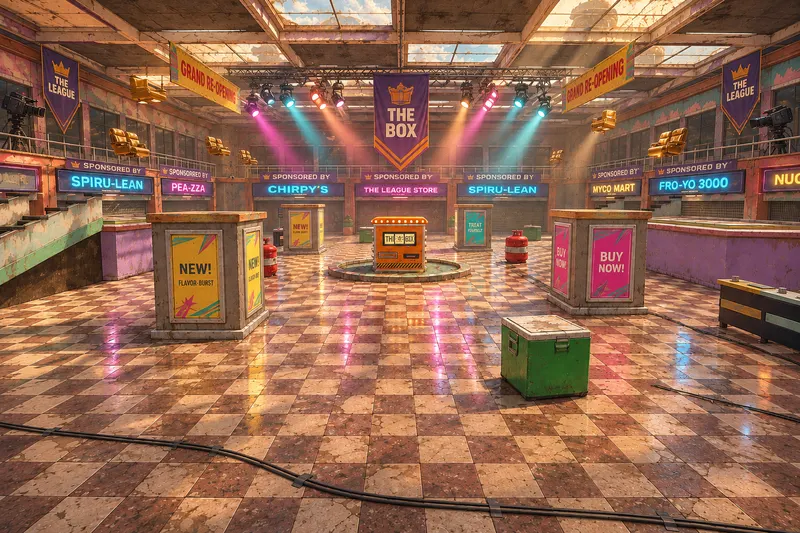
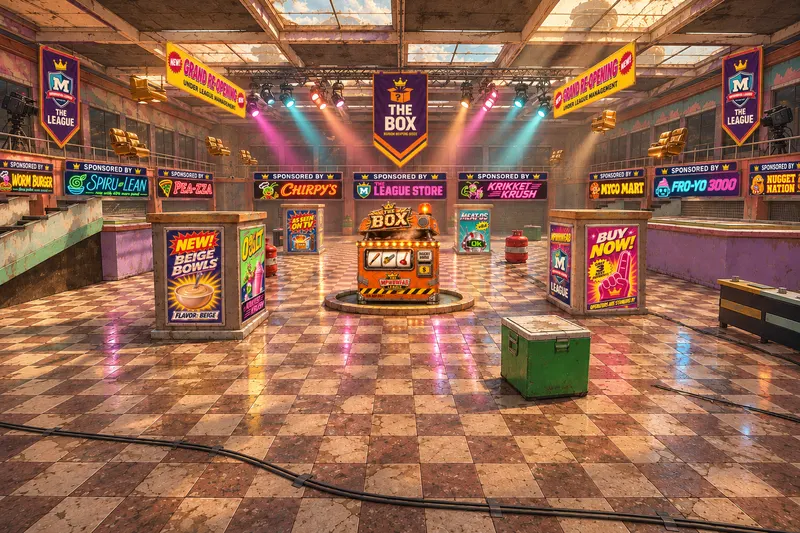
deploy: syscake.it preview from 103d374

diff --git a/it/prodotti/index.html b/it/prodotti/index.html
@@ -25,7 +25,7 @@ if(saved?saved==='it':/^it\b/i.test(pref))location.replace(it+location.search+lo
 <link rel="icon" href="/favicon.svg" type="image/svg+xml">
 <link rel="preload" href="/fonts/archivo-latin.woff2" as="font" type="font/woff2" crossorigin>
 <link rel="stylesheet" href="/css/site.css?v=45ac9cef5f">
-<script type="application/ld+json">{"@context":"https://schema.org","@type":"Organization","@id":"https://new.syscake.it/#organization","name":"Syscake","legalName":"Syscake S.r.l.","url":"https://new.syscake.it/","logo":"https://new.syscake.it/img/brand/logo-dark.svg","foundingDate":"2022","email":"info@syscake.it","telephone":"+393518250523","vatID":"IT16207441003","address":{"@type":"PostalAddress","streetAddress":"Via Quinto Novio 44","postalCode":"00175","addressLocality":"Roma","addressCountry":"IT"},"sameAs":["https://github.com/SysCake","https://www.linkedin.com/company/syscake/","https://www.instagram.com/syscake.tech","https://www.facebook.com/syscake.tech"]}</script><script type="application/ld+json">{"@context":"https://schema.org","@type":"ItemList","itemListElement":[{"@type":"ListItem","position":1,"url":"https://new.syscake.it/it/prodotti/chroniq/","name":"Chroniq"},{"@type":"ListItem","position":2,"url":"https://new.syscake.it/it/prodotti/swe-foundry/","name":"SWE Foundry"},{"@type":"ListItem","position":3,"url":"https://new.syscake.it/it/prodotti/rideweave/","name":"RideWeave"},{"@type":"ListItem","position":4,"url":"https://new.syscake.it/it/prodotti/videat/","name":"Videat"},{"@type":"ListItem","position":5,"url":"https://new.syscake.it/it/prodotti/morsiqo/","name":"Morsiqo"},{"@type":"ListItem","position":6,"url":"https://new.syscake.it/it/prodotti/meat-puppets/","name":"Meat Puppets"}]}</script><script type="application/ld+json">{"@context":"https://schema.org","@type":"BreadcrumbList","itemListElement":[{"@type":"ListItem","position":1,"name":"Home","item":"https://new.syscake.it/it/"},{"@type":"ListItem","position":2,"name":"Prodotti","item":"https://new.syscake.it/it/prodotti/"}]}</script>
+<script type="application/ld+json">{"@context":"https://schema.org","@type":"Organization","@id":"https://new.syscake.it/#organization","name":"Syscake","legalName":"Syscake S.r.l.","url":"https://new.syscake.it/","logo":"https://new.syscake.it/img/brand/logo-dark.svg","foundingDate":"2022","email":"info@syscake.it","telephone":"+393518250523","vatID":"IT16207441003","address":{"@type":"PostalAddress","streetAddress":"Via Quinto Novio 44","postalCode":"00175","addressLocality":"Roma","addressCountry":"IT"},"sameAs":["https://github.com/SysCake","https://www.linkedin.com/company/syscake/","https://www.instagram.com/syscake.tech","https://www.facebook.com/syscake.tech"]}</script><script type="application/ld+json">{"@context":"https://schema.org","@type":"ItemList","itemListElement":[{"@type":"ListItem","position":1,"url":"https://new.syscake.it/it/prodotti/chroniq/","name":"Chroniq"},{"@type":"ListItem","position":2,"url":"https://new.syscake.it/it/prodotti/swe-foundry/","name":"SWE Foundry"},{"@type":"ListItem","position":3,"url":"https://new.syscake.it/it/prodotti/rideweave/","name":"RideWeave"},{"@type":"ListItem","position":4,"url":"https://new.syscake.it/it/prodotti/videat/","name":"Videat"},{"@type":"ListItem","position":5,"url":"https://new.syscake.it/it/prodotti/meat-puppets/","name":"Meat Puppets"},{"@type":"ListItem","position":6,"url":"https://new.syscake.it/it/prodotti/morsiqo/","name":"Morsiqo"}]}</script><script type="application/ld+json">{"@context":"https://schema.org","@type":"BreadcrumbList","itemListElement":[{"@type":"ListItem","position":1,"name":"Home","item":"https://new.syscake.it/it/"},{"@type":"ListItem","position":2,"name":"Prodotti","item":"https://new.syscake.it/it/prodotti/"}]}</script>
 </head>
 <body>
 <a class="skip" href="#main">Vai al contenuto</a>
@@ -93,15 +93,6 @@ if(saved?saved==='it':/^it\b/i.test(pref))location.replace(it+location.search+lo
     <div class="actions"><a class="pbtn" href="/it/prodotti/videat/">Scheda prodotto →</a></div>
   </div>
   <div class="vis v-logo" style="--vis-bg:#F5E6D2"><img src="/img/products/videat-wordmark.svg" alt="Videat" loading="lazy"></div>
-</article><article class="panel" id="p-morsiqo" style="--pbg:#054D48;--pfg:#FEFCF9;--psoft:#BFD6D2;--pchip:#0B5F59;--pacc:#F57709;--pon:#1B1206;--icon-bg:#FEFCF9">
-  <div class="txt">
-    <div class="id"><img src="/img/products/morsiqo-icon.png" alt="" width="52" height="52">Morsiqo</div>
-    <h2>Un agente AI che prende l'ordine, e lo porta fino in fondo.</h2>
-    <p>Ordini da asporto e consegna in chat. Un agente AI guida ogni cliente dal menu al pagamento e lo aggiorna finché il cibo non arriva; il ristorante segue tutto da un'app in tempo reale.</p>
-    <div class="meta"><span class="pill" style="--dot:#8C93FF"><i></i>In sviluppo</span><span class="pill">WhatsApp · Web</span><span class="pill">Agente AI</span></div>
-    <div class="actions"><a class="pbtn" href="/it/prodotti/morsiqo/">Scheda prodotto →</a></div>
-  </div>
-  <div class="vis v-image" style="--pos:72% 50%"><img src="/img/products/morsiqo-shot.jpg" alt="Morsiqo: gli ordini passano da una nuvoletta di chat alla cucina di un ristorante" loading="lazy"></div>
 </article><article class="panel" id="p-meat-puppets" style="--pbg:#1B1F3B;--pfg:#F7F3E9;--psoft:#C9C6DD;--pchip:#272C55;--pacc:#E8357D;--pon:#FFFFFF">
   <div class="txt">
     <div class="id"><img src="/img/products/meat-puppets/icon-face.webp" alt="" width="52" height="52">Meat Puppets</div>
@@ -111,6 +102,15 @@ if(saved?saved==='it':/^it\b/i.test(pref))location.replace(it+location.search+lo
     <div class="actions"><a class="pbtn" href="https://meatpuppets.syscake.it" rel="noopener">meatpuppets.syscake.it ↗</a><a class="plink" href="/it/prodotti/meat-puppets/">Scheda prodotto →</a></div>
   </div>
   <div class="vis v-image"><img src="/img/products/meat-puppets/keyart-1600.webp" alt="Key art di Meat Puppets: due marionette combattono accanto a THE BOX mentre un trilionario guarda da una poltrona volante" loading="lazy"></div>
+</article><article class="panel" id="p-morsiqo" style="--pbg:#054D48;--pfg:#FEFCF9;--psoft:#BFD6D2;--pchip:#0B5F59;--pacc:#F57709;--pon:#1B1206;--icon-bg:#FEFCF9">
+  <div class="txt">
+    <div class="id"><img src="/img/products/morsiqo-icon.png" alt="" width="52" height="52">Morsiqo</div>
+    <h2>Un agente AI che prende l'ordine, e lo porta fino in fondo.</h2>
+    <p>Ordini da asporto e consegna in chat. Un agente AI guida ogni cliente dal menu al pagamento e lo aggiorna finché il cibo non arriva; il ristorante segue tutto da un'app in tempo reale.</p>
+    <div class="meta"><span class="pill" style="--dot:#8C93FF"><i></i>In sviluppo</span><span class="pill">WhatsApp · Web</span><span class="pill">Agente AI</span></div>
+    <div class="actions"><a class="pbtn" href="/it/prodotti/morsiqo/">Scheda prodotto →</a></div>
+  </div>
+  <div class="vis v-image" style="--pos:72% 50%"><img src="/img/products/morsiqo-shot.jpg" alt="Morsiqo: gli ordini passano da una nuvoletta di chat alla cucina di un ristorante" loading="lazy"></div>
 </article></div>
     <div class="next">
   <div class="next-head"><h3>In progettazione</h3><p>4 progetti in fase di design. I nomi sono provvisori.</p></div>
@@ -136,7 +136,7 @@ if(saved?saved==='it':/^it\b/i.test(pref))location.replace(it+location.search+lo
   <div class="wrap">
     <div class="grid">
       <div class="brand"><img src="/img/brand/logo-light.svg" alt="Syscake" width="89" height="26"><p>Ingegneria del software e intelligenza artificiale applicata, dalla ricerca alla produzione. Roma.</p></div>
-      <div><h2>Prodotti</h2><ul><li><a href="/it/prodotti/chroniq/">Chroniq</a></li><li><a href="/it/prodotti/swe-foundry/">SWE Foundry</a></li><li><a href="/it/prodotti/rideweave/">RideWeave</a></li><li><a href="/it/prodotti/videat/">Videat</a></li><li><a href="/it/prodotti/morsiqo/">Morsiqo</a></li><li><a href="/it/prodotti/meat-puppets/">Meat Puppets</a></li></ul></div>
+      <div><h2>Prodotti</h2><ul><li><a href="/it/prodotti/chroniq/">Chroniq</a></li><li><a href="/it/prodotti/swe-foundry/">SWE Foundry</a></li><li><a href="/it/prodotti/rideweave/">RideWeave</a></li><li><a href="/it/prodotti/videat/">Videat</a></li><li><a href="/it/prodotti/meat-puppets/">Meat Puppets</a></li><li><a href="/it/prodotti/morsiqo/">Morsiqo</a></li></ul></div>
       <div><h2>Competenze</h2><ul><li><a href="/it/competenze/intelligenza-artificiale/">AI applicata</a></li><li><a href="/it/competenze/ingegneria-di-prodotto/">Ingegneria di prodotto</a></li><li><a href="/it/competenze/blockchain-identita-digitale/">Blockchain e identità digitale</a></li><li><a href="/it/competenze/dati-scienza-iot/">Dati, scienza e IoT</a></li></ul></div>
       <div><h2>Azienda</h2><ul><li><a href="/it/chi-siamo/">Chi siamo</a></li><li><a href="/it/lavori/">Lavori</a></li><li><a href="/it/lavora-con-noi/">Lavora con noi</a></li><li><a href="/it/contatti/">Contatti</a></li><li><a href="https://github.com/SysCake" rel="noopener">GitHub</a></li><li><a href="https://www.linkedin.com/company/syscake/" rel="noopener">Linkedin</a></li><li><a href="https://www.instagram.com/syscake.tech" rel="noopener">Instagram</a></li><li><a href="https://www.facebook.com/syscake.tech" rel="noopener">Facebook</a></li></ul></div>
     </div>

diff --git a/products/index.html b/products/index.html
@@ -25,7 +25,7 @@ if(saved?saved==='it':/^it\b/i.test(pref))location.replace(it+location.search+lo
 <link rel="icon" href="/favicon.svg" type="image/svg+xml">
 <link rel="preload" href="/fonts/archivo-latin.woff2" as="font" type="font/woff2" crossorigin>
 <link rel="stylesheet" href="/css/site.css?v=45ac9cef5f">
-<script type="application/ld+json">{"@context":"https://schema.org","@type":"Organization","@id":"https://new.syscake.it/#organization","name":"Syscake","legalName":"Syscake S.r.l.","url":"https://new.syscake.it/","logo":"https://new.syscake.it/img/brand/logo-dark.svg","foundingDate":"2022","email":"info@syscake.it","telephone":"+393518250523","vatID":"IT16207441003","address":{"@type":"PostalAddress","streetAddress":"Via Quinto Novio 44","postalCode":"00175","addressLocality":"Roma","addressCountry":"IT"},"sameAs":["https://github.com/SysCake","https://www.linkedin.com/company/syscake/","https://www.instagram.com/syscake.tech","https://www.facebook.com/syscake.tech"]}</script><script type="application/ld+json">{"@context":"https://schema.org","@type":"ItemList","itemListElement":[{"@type":"ListItem","position":1,"url":"https://new.syscake.it/products/chroniq/","name":"Chroniq"},{"@type":"ListItem","position":2,"url":"https://new.syscake.it/products/swe-foundry/","name":"SWE Foundry"},{"@type":"ListItem","position":3,"url":"https://new.syscake.it/products/rideweave/","name":"RideWeave"},{"@type":"ListItem","position":4,"url":"https://new.syscake.it/products/videat/","name":"Videat"},{"@type":"ListItem","position":5,"url":"https://new.syscake.it/products/morsiqo/","name":"Morsiqo"},{"@type":"ListItem","position":6,"url":"https://new.syscake.it/products/meat-puppets/","name":"Meat Puppets"}]}</script><script type="application/ld+json">{"@context":"https://schema.org","@type":"BreadcrumbList","itemListElement":[{"@type":"ListItem","position":1,"name":"Home","item":"https://new.syscake.it/"},{"@type":"ListItem","position":2,"name":"Products","item":"https://new.syscake.it/products/"}]}</script>
+<script type="application/ld+json">{"@context":"https://schema.org","@type":"Organization","@id":"https://new.syscake.it/#organization","name":"Syscake","legalName":"Syscake S.r.l.","url":"https://new.syscake.it/","logo":"https://new.syscake.it/img/brand/logo-dark.svg","foundingDate":"2022","email":"info@syscake.it","telephone":"+393518250523","vatID":"IT16207441003","address":{"@type":"PostalAddress","streetAddress":"Via Quinto Novio 44","postalCode":"00175","addressLocality":"Roma","addressCountry":"IT"},"sameAs":["https://github.com/SysCake","https://www.linkedin.com/company/syscake/","https://www.instagram.com/syscake.tech","https://www.facebook.com/syscake.tech"]}</script><script type="application/ld+json">{"@context":"https://schema.org","@type":"ItemList","itemListElement":[{"@type":"ListItem","position":1,"url":"https://new.syscake.it/products/chroniq/","name":"Chroniq"},{"@type":"ListItem","position":2,"url":"https://new.syscake.it/products/swe-foundry/","name":"SWE Foundry"},{"@type":"ListItem","position":3,"url":"https://new.syscake.it/products/rideweave/","name":"RideWeave"},{"@type":"ListItem","position":4,"url":"https://new.syscake.it/products/videat/","name":"Videat"},{"@type":"ListItem","position":5,"url":"https://new.syscake.it/products/meat-puppets/","name":"Meat Puppets"},{"@type":"ListItem","position":6,"url":"https://new.syscake.it/products/morsiqo/","name":"Morsiqo"}]}</script><script type="application/ld+json">{"@context":"https://schema.org","@type":"BreadcrumbList","itemListElement":[{"@type":"ListItem","position":1,"name":"Home","item":"https://new.syscake.it/"},{"@type":"ListItem","position":2,"name":"Products","item":"https://new.syscake.it/products/"}]}</script>
 </head>
 <body>
 <a class="skip" href="#main">Skip to content</a>
@@ -93,15 +93,6 @@ if(saved?saved==='it':/^it\b/i.test(pref))location.replace(it+location.search+lo
     <div class="actions"><a class="pbtn" href="/products/videat/">Product page →</a></div>
   </div>
   <div class="vis v-logo" style="--vis-bg:#F5E6D2"><img src="/img/products/videat-wordmark.svg" alt="Videat" loading="lazy"></div>
-</article><article class="panel" id="p-morsiqo" style="--pbg:#054D48;--pfg:#FEFCF9;--psoft:#BFD6D2;--pchip:#0B5F59;--pacc:#F57709;--pon:#1B1206;--icon-bg:#FEFCF9">
-  <div class="txt">
-    <div class="id"><img src="/img/products/morsiqo-icon.png" alt="" width="52" height="52">Morsiqo</div>
-    <h2>An AI agent that takes the order — and sees it through.</h2>
-    <p>Takeaway and delivery ordering through chat. An AI agent guides each customer from the menu to payment and keeps them posted until the food arrives; the restaurant follows everything from a real-time app.</p>
-    <div class="meta"><span class="pill" style="--dot:#8C93FF"><i></i>In development</span><span class="pill">WhatsApp · Web</span><span class="pill">AI agent</span></div>
-    <div class="actions"><a class="pbtn" href="/products/morsiqo/">Product page →</a></div>
-  </div>
-  <div class="vis v-image" style="--pos:72% 50%"><img src="/img/products/morsiqo-shot.jpg" alt="Morsiqo: orders flowing from a chat bubble into a restaurant kitchen" loading="lazy"></div>
 </article><article class="panel" id="p-meat-puppets" style="--pbg:#1B1F3B;--pfg:#F7F3E9;--psoft:#C9C6DD;--pchip:#272C55;--pacc:#E8357D;--pon:#FFFFFF">
   <div class="txt">
     <div class="id"><img src="/img/products/meat-puppets/icon-face.webp" alt="" width="52" height="52">Meat Puppets</div>
@@ -111,6 +102,15 @@ if(saved?saved==='it':/^it\b/i.test(pref))location.replace(it+location.search+lo
     <div class="actions"><a class="pbtn" href="https://meatpuppets.syscake.it" rel="noopener">meatpuppets.syscake.it ↗</a><a class="plink" href="/products/meat-puppets/">Product page →</a></div>
   </div>
   <div class="vis v-image"><img src="/img/products/meat-puppets/keyart-1600.webp" alt="Meat Puppets key art: two puppets fight next to THE BOX while a trillionaire watches from a floating recliner" loading="lazy"></div>
+</article><article class="panel" id="p-morsiqo" style="--pbg:#054D48;--pfg:#FEFCF9;--psoft:#BFD6D2;--pchip:#0B5F59;--pacc:#F57709;--pon:#1B1206;--icon-bg:#FEFCF9">
+  <div class="txt">
+    <div class="id"><img src="/img/products/morsiqo-icon.png" alt="" width="52" height="52">Morsiqo</div>
+    <h2>An AI agent that takes the order — and sees it through.</h2>
+    <p>Takeaway and delivery ordering through chat. An AI agent guides each customer from the menu to payment and keeps them posted until the food arrives; the restaurant follows everything from a real-time app.</p>
+    <div class="meta"><span class="pill" style="--dot:#8C93FF"><i></i>In development</span><span class="pill">WhatsApp · Web</span><span class="pill">AI agent</span></div>
+    <div class="actions"><a class="pbtn" href="/products/morsiqo/">Product page →</a></div>
+  </div>
+  <div class="vis v-image" style="--pos:72% 50%"><img src="/img/products/morsiqo-shot.jpg" alt="Morsiqo: orders flowing from a chat bubble into a restaurant kitchen" loading="lazy"></div>
 </article></div>
     <div class="next">
   <div class="next-head"><h3>On the drawing board</h3><p>4 projects in design. Names are working titles.</p></div>
@@ -136,7 +136,7 @@ if(saved?saved==='it':/^it\b/i.test(pref))location.replace(it+location.search+lo
   <div class="wrap">
     <div class="grid">
       <div class="brand"><img src="/img/brand/logo-light.svg" alt="Syscake" width="89" height="26"><p>Software engineering and applied AI, from research to production. Rome, Italy.</p></div>
-      <div><h2>Products</h2><ul><li><a href="/products/chroniq/">Chroniq</a></li><li><a href="/products/swe-foundry/">SWE Foundry</a></li><li><a href="/products/rideweave/">RideWeave</a></li><li><a href="/products/videat/">Videat</a></li><li><a href="/products/morsiqo/">Morsiqo</a></li><li><a href="/products/meat-puppets/">Meat Puppets</a></li></ul></div>
+      <div><h2>Products</h2><ul><li><a href="/products/chroniq/">Chroniq</a></li><li><a href="/products/swe-foundry/">SWE Foundry</a></li><li><a href="/products/rideweave/">RideWeave</a></li><li><a href="/products/videat/">Videat</a></li><li><a href="/products/meat-puppets/">Meat Puppets</a></li><li><a href="/products/morsiqo/">Morsiqo</a></li></ul></div>
       <div><h2>Services</h2><ul><li><a href="/services/applied-ai/">Applied AI</a></li><li><a href="/services/product-engineering/">Product engineering</a></li><li><a href="/services/blockchain-digital-identity/">Blockchain &amp; digital identity</a></li><li><a href="/services/data-science-iot/">Data, science &amp; IoT</a></li></ul></div>
       <div><h2>Company</h2><ul><li><a href="/about/">About</a></li><li><a href="/work/">Work</a></li><li><a href="/careers/">Careers</a></li><li><a href="/contact/">Contact</a></li><li><a href="https://github.com/SysCake" rel="noopener">GitHub</a></li><li><a href="https://www.linkedin.com/company/syscake/" rel="noopener">Linkedin</a></li><li><a href="https://www.instagram.com/syscake.tech" rel="noopener">Instagram</a></li><li><a href="https://www.facebook.com/syscake.tech" rel="noopener">Facebook</a></li></ul></div>
     </div>

diff --git a/it/index.html b/it/index.html
@@ -112,14 +112,6 @@ if(saved?saved==='it':/^it\b/i.test(pref))location.replace(it+location.search+lo
     <p>Una guida a ristoranti e locali costruita sulle recensioni di YouTube. L'AI trova ogni locale, voto e momento.</p>
     <div class="foot"><span class="status in-development mono"><i></i>In sviluppo · Web · iOS · Android</span><span class="go mono" aria-hidden="true">Scopri →</span></div>
   </div>
-</article><article class="card wide" style="--span:6;--accent:#F57709;--icon-bg:#FEFCF9">
-  <div class="shot v-image" style="--pos:70% 50%"><img src="/img/products/morsiqo-shot.jpg" alt="Morsiqo: gli ordini passano da una nuvoletta di chat alla cucina di un ristorante" loading="lazy"></div>
-  <div class="body">
-    <div class="top"><img src="/img/products/morsiqo-icon.png" alt="" width="40" height="40"><h3 class="name"><a href="/it/prodotti/morsiqo/">Morsiqo</a></h3></div>
-    <div class="tag">Un agente AI che prende l'ordine, e lo porta fino in fondo.</div>
-    <p>Su WhatsApp, un agente AI gestisce tutto l'ordine per il ristorante: guida il cliente nel menu, risponde alle domande, compone il carrello, gestisce il pagamento e lo aggiorna fino al ritiro o alla consegna.</p><p>Lo staff interviene solo quando serve una decisione, da un'app in tempo reale.</p>
-    <div class="foot"><span class="status in-development mono"><i></i>In sviluppo · WhatsApp · Web</span><span class="go mono" aria-hidden="true">Scopri →</span></div>
-  </div>
 </article><article class="card" style="--span:2;--accent:#E8357D">
   <div class="shot v-image" style="--pos:50% 40%"><img src="/img/products/meat-puppets/keyart-1600.webp" alt="Key art di Meat Puppets: due marionette combattono accanto a THE BOX mentre un trilionario guarda da una poltrona volante" loading="lazy"></div>
   <div class="body">
@@ -127,6 +119,14 @@ if(saved?saved==='it':/^it\b/i.test(pref))location.replace(it+location.search+lo
     <div class="tag">Corpi senza cervello. Armi assurde. Trilionari annoiati.</div>
     <p>Un picchiaduro satirico 1 contro 1 per mobile: piloti una marionetta stampata con farina di grillo, peschi un'arma dalla SCATOLA e combatti.</p>
     <div class="foot"><span class="status in-development mono"><i></i>In sviluppo · iOS · Android</span><span class="go mono" aria-hidden="true">Scopri →</span></div>
+  </div>
+</article><article class="card wide" style="--span:6;--accent:#F57709;--icon-bg:#FEFCF9">
+  <div class="shot v-image" style="--pos:70% 50%"><img src="/img/products/morsiqo-shot.jpg" alt="Morsiqo: gli ordini passano da una nuvoletta di chat alla cucina di un ristorante" loading="lazy"></div>
+  <div class="body">
+    <div class="top"><img src="/img/products/morsiqo-icon.png" alt="" width="40" height="40"><h3 class="name"><a href="/it/prodotti/morsiqo/">Morsiqo</a></h3></div>
+    <div class="tag">Un agente AI che prende l'ordine, e lo porta fino in fondo.</div>
+    <p>Su WhatsApp, un agente AI gestisce tutto l'ordine per il ristorante: guida il cliente nel menu, risponde alle domande, compone il carrello, gestisce il pagamento e lo aggiorna fino al ritiro o alla consegna.</p><p>Lo staff interviene solo quando serve una decisione, da un'app in tempo reale.</p>
+    <div class="foot"><span class="status in-development mono"><i></i>In sviluppo · WhatsApp · Web</span><span class="go mono" aria-hidden="true">Scopri →</span></div>
   </div>
 </article></div>
     <div class="next">
@@ -196,7 +196,7 @@ if(saved?saved==='it':/^it\b/i.test(pref))location.replace(it+location.search+lo
   <div class="wrap">
     <div class="grid">
       <div class="brand"><img src="/img/brand/logo-light.svg" alt="Syscake" width="89" height="26"><p>Ingegneria del software e intelligenza artificiale applicata, dalla ricerca alla produzione. Roma.</p></div>
-      <div><h2>Prodotti</h2><ul><li><a href="/it/prodotti/chroniq/">Chroniq</a></li><li><a href="/it/prodotti/swe-foundry/">SWE Foundry</a></li><li><a href="/it/prodotti/rideweave/">RideWeave</a></li><li><a href="/it/prodotti/videat/">Videat</a></li><li><a href="/it/prodotti/morsiqo/">Morsiqo</a></li><li><a href="/it/prodotti/meat-puppets/">Meat Puppets</a></li></ul></div>
+      <div><h2>Prodotti</h2><ul><li><a href="/it/prodotti/chroniq/">Chroniq</a></li><li><a href="/it/prodotti/swe-foundry/">SWE Foundry</a></li><li><a href="/it/prodotti/rideweave/">RideWeave</a></li><li><a href="/it/prodotti/videat/">Videat</a></li><li><a href="/it/prodotti/meat-puppets/">Meat Puppets</a></li><li><a href="/it/prodotti/morsiqo/">Morsiqo</a></li></ul></div>
       <div><h2>Competenze</h2><ul><li><a href="/it/competenze/intelligenza-artificiale/">AI applicata</a></li><li><a href="/it/competenze/ingegneria-di-prodotto/">Ingegneria di prodotto</a></li><li><a href="/it/competenze/blockchain-identita-digitale/">Blockchain e identità digitale</a></li><li><a href="/it/competenze/dati-scienza-iot/">Dati, scienza e IoT</a></li></ul></div>
       <div><h2>Azienda</h2><ul><li><a href="/it/chi-siamo/">Chi siamo</a></li><li><a href="/it/lavori/">Lavori</a></li><li><a href="/it/lavora-con-noi/">Lavora con noi</a></li><li><a href="/it/contatti/">Contatti</a></li><li><a href="https://github.com/SysCake" rel="noopener">GitHub</a></li><li><a href="https://www.linkedin.com/company/syscake/" rel="noopener">Linkedin</a></li><li><a href="https://www.instagram.com/syscake.tech" rel="noopener">Instagram</a></li><li><a href="https://www.facebook.com/syscake.tech" rel="noopener">Facebook</a></li></ul></div>
     </div>

diff --git a/index.html b/index.html
@@ -112,14 +112,6 @@ if(saved?saved==='it':/^it\b/i.test(pref))location.replace(it+location.search+lo
     <p>A guide to restaurants and bars built on YouTube reviews. AI finds every venue, score and moment.</p>
     <div class="foot"><span class="status in-development mono"><i></i>In development · Web · iOS · Android</span><span class="go mono" aria-hidden="true">Learn more →</span></div>
   </div>
-</article><article class="card wide" style="--span:6;--accent:#F57709;--icon-bg:#FEFCF9">
-  <div class="shot v-image" style="--pos:70% 50%"><img src="/img/products/morsiqo-shot.jpg" alt="Morsiqo: orders flowing from a chat bubble into a restaurant kitchen" loading="lazy"></div>
-  <div class="body">
-    <div class="top"><img src="/img/products/morsiqo-icon.png" alt="" width="40" height="40"><h3 class="name"><a href="/products/morsiqo/">Morsiqo</a></h3></div>
-    <div class="tag">An AI agent that takes the order — and sees it through.</div>
-    <p>On WhatsApp, an AI agent runs the whole order for the restaurant: it guides customers through the menu, answers questions, builds the cart, handles payment and keeps them posted until pickup or delivery.</p><p>Staff step in only when a decision is needed, from a real-time app.</p>
-    <div class="foot"><span class="status in-development mono"><i></i>In development · WhatsApp · Web</span><span class="go mono" aria-hidden="true">Learn more →</span></div>
-  </div>
 </article><article class="card" style="--span:2;--accent:#E8357D">
   <div class="shot v-image" style="--pos:50% 40%"><img src="/img/products/meat-puppets/keyart-1600.webp" alt="Meat Puppets key art: two puppets fight next to THE BOX while a trillionaire watches from a floating recliner" loading="lazy"></div>
   <div class="body">
@@ -127,6 +119,14 @@ if(saved?saved==='it':/^it\b/i.test(pref))location.replace(it+location.search+lo
     <div class="tag">Brainless bodies. Absurd weapons. Bored trillionaires.</div>
     <p>A satirical 1v1 brawler for mobile: pilot a puppet printed from cricket flour, draw a weapon from THE BOX and fight.</p>
     <div class="foot"><span class="status in-development mono"><i></i>In development · iOS · Android</span><span class="go mono" aria-hidden="true">Learn more →</span></div>
+  </div>
+</article><article class="card wide" style="--span:6;--accent:#F57709;--icon-bg:#FEFCF9">
+  <div class="shot v-image" style="--pos:70% 50%"><img src="/img/products/morsiqo-shot.jpg" alt="Morsiqo: orders flowing from a chat bubble into a restaurant kitchen" loading="lazy"></div>
+  <div class="body">
+    <div class="top"><img src="/img/products/morsiqo-icon.png" alt="" width="40" height="40"><h3 class="name"><a href="/products/morsiqo/">Morsiqo</a></h3></div>
+    <div class="tag">An AI agent that takes the order — and sees it through.</div>
+    <p>On WhatsApp, an AI agent runs the whole order for the restaurant: it guides customers through the menu, answers questions, builds the cart, handles payment and keeps them posted until pickup or delivery.</p><p>Staff step in only when a decision is needed, from a real-time app.</p>
+    <div class="foot"><span class="status in-development mono"><i></i>In development · WhatsApp · Web</span><span class="go mono" aria-hidden="true">Learn more →</span></div>
   </div>
 </article></div>
     <div class="next">
@@ -196,7 +196,7 @@ if(saved?saved==='it':/^it\b/i.test(pref))location.replace(it+location.search+lo
   <div class="wrap">
     <div class="grid">
       <div class="brand"><img src="/img/brand/logo-light.svg" alt="Syscake" width="89" height="26"><p>Software engineering and applied AI, from research to production. Rome, Italy.</p></div>
-      <div><h2>Products</h2><ul><li><a href="/products/chroniq/">Chroniq</a></li><li><a href="/products/swe-foundry/">SWE Foundry</a></li><li><a href="/products/rideweave/">RideWeave</a></li><li><a href="/products/videat/">Videat</a></li><li><a href="/products/morsiqo/">Morsiqo</a></li><li><a href="/products/meat-puppets/">Meat Puppets</a></li></ul></div>
+      <div><h2>Products</h2><ul><li><a href="/products/chroniq/">Chroniq</a></li><li><a href="/products/swe-foundry/">SWE Foundry</a></li><li><a href="/products/rideweave/">RideWeave</a></li><li><a href="/products/videat/">Videat</a></li><li><a href="/products/meat-puppets/">Meat Puppets</a></li><li><a href="/products/morsiqo/">Morsiqo</a></li></ul></div>
       <div><h2>Services</h2><ul><li><a href="/services/applied-ai/">Applied AI</a></li><li><a href="/services/product-engineering/">Product engineering</a></li><li><a href="/services/blockchain-digital-identity/">Blockchain &amp; digital identity</a></li><li><a href="/services/data-science-iot/">Data, science &amp; IoT</a></li></ul></div>
       <div><h2>Company</h2><ul><li><a href="/about/">About</a></li><li><a href="/work/">Work</a></li><li><a href="/careers/">Careers</a></li><li><a href="/contact/">Contact</a></li><li><a href="https://github.com/SysCake" rel="noopener">GitHub</a></li><li><a href="https://www.linkedin.com/company/syscake/" rel="noopener">Linkedin</a></li><li><a href="https://www.instagram.com/syscake.tech" rel="noopener">Instagram</a></li><li><a href="https://www.facebook.com/syscake.tech" rel="noopener">Facebook</a></li></ul></div>
     </div>

diff --git a/it/competenze/index.html b/it/competenze/index.html
@@ -107,7 +107,7 @@ if(saved?saved==='it':/^it\b/i.test(pref))location.replace(it+location.search+lo
   <div class="wrap">
     <div class="grid">
       <div class="brand"><img src="/img/brand/logo-light.svg" alt="Syscake" width="89" height="26"><p>Ingegneria del software e intelligenza artificiale applicata, dalla ricerca alla produzione. Roma.</p></div>
-      <div><h2>Prodotti</h2><ul><li><a href="/it/prodotti/chroniq/">Chroniq</a></li><li><a href="/it/prodotti/swe-foundry/">SWE Foundry</a></li><li><a href="/it/prodotti/rideweave/">RideWeave</a></li><li><a href="/it/prodotti/videat/">Videat</a></li><li><a href="/it/prodotti/morsiqo/">Morsiqo</a></li><li><a href="/it/prodotti/meat-puppets/">Meat Puppets</a></li></ul></div>
+      <div><h2>Prodotti</h2><ul><li><a href="/it/prodotti/chroniq/">Chroniq</a></li><li><a href="/it/prodotti/swe-foundry/">SWE Foundry</a></li><li><a href="/it/prodotti/rideweave/">RideWeave</a></li><li><a href="/it/prodotti/videat/">Videat</a></li><li><a href="/it/prodotti/meat-puppets/">Meat Puppets</a></li><li><a href="/it/prodotti/morsiqo/">Morsiqo</a></li></ul></div>
       <div><h2>Competenze</h2><ul><li><a href="/it/competenze/intelligenza-artificiale/">AI applicata</a></li><li><a href="/it/competenze/ingegneria-di-prodotto/">Ingegneria di prodotto</a></li><li><a href="/it/competenze/blockchain-identita-digitale/">Blockchain e identità digitale</a></li><li><a href="/it/competenze/dati-scienza-iot/">Dati, scienza e IoT</a></li></ul></div>
       <div><h2>Azienda</h2><ul><li><a href="/it/chi-siamo/">Chi siamo</a></li><li><a href="/it/lavori/">Lavori</a></li><li><a href="/it/lavora-con-noi/">Lavora con noi</a></li><li><a href="/it/contatti/">Contatti</a></li><li><a href="https://github.com/SysCake" rel="noopener">GitHub</a></li><li><a href="https://www.linkedin.com/company/syscake/" rel="noopener">Linkedin</a></li><li><a href="https://www.instagram.com/syscake.tech" rel="noopener">Instagram</a></li><li><a href="https://www.facebook.com/syscake.tech" rel="noopener">Facebook</a></li></ul></div>
     </div>

diff --git a/it/chi-siamo/index.html b/it/chi-siamo/index.html
@@ -95,7 +95,7 @@ if(saved?saved==='it':/^it\b/i.test(pref))location.replace(it+location.search+lo
   <div class="wrap">
     <div class="grid">
       <div class="brand"><img src="/img/brand/logo-light.svg" alt="Syscake" width="89" height="26"><p>Ingegneria del software e intelligenza artificiale applicata, dalla ricerca alla produzione. Roma.</p></div>
-      <div><h2>Prodotti</h2><ul><li><a href="/it/prodotti/chroniq/">Chroniq</a></li><li><a href="/it/prodotti/swe-foundry/">SWE Foundry</a></li><li><a href="/it/prodotti/rideweave/">RideWeave</a></li><li><a href="/it/prodotti/videat/">Videat</a></li><li><a href="/it/prodotti/morsiqo/">Morsiqo</a></li><li><a href="/it/prodotti/meat-puppets/">Meat Puppets</a></li></ul></div>
+      <div><h2>Prodotti</h2><ul><li><a href="/it/prodotti/chroniq/">Chroniq</a></li><li><a href="/it/prodotti/swe-foundry/">SWE Foundry</a></li><li><a href="/it/prodotti/rideweave/">RideWeave</a></li><li><a href="/it/prodotti/videat/">Videat</a></li><li><a href="/it/prodotti/meat-puppets/">Meat Puppets</a></li><li><a href="/it/prodotti/morsiqo/">Morsiqo</a></li></ul></div>
       <div><h2>Competenze</h2><ul><li><a href="/it/competenze/intelligenza-artificiale/">AI applicata</a></li><li><a href="/it/competenze/ingegneria-di-prodotto/">Ingegneria di prodotto</a></li><li><a href="/it/competenze/blockchain-identita-digitale/">Blockchain e identità digitale</a></li><li><a href="/it/competenze/dati-scienza-iot/">Dati, scienza e IoT</a></li></ul></div>
       <div><h2>Azienda</h2><ul><li><a href="/it/chi-siamo/">Chi siamo</a></li><li><a href="/it/lavori/">Lavori</a></li><li><a href="/it/lavora-con-noi/">Lavora con noi</a></li><li><a href="/it/contatti/">Contatti</a></li><li><a href="https://github.com/SysCake" rel="noopener">GitHub</a></li><li><a href="https://www.linkedin.com/company/syscake/" rel="noopener">Linkedin</a></li><li><a href="https://www.instagram.com/syscake.tech" rel="noopener">Instagram</a></li><li><a href="https://www.facebook.com/syscake.tech" rel="noopener">Facebook</a></li></ul></div>
     </div>

diff --git a/it/competenze/blockchain-identita-digitale/index.html b/it/competenze/blockchain-identita-digitale/index.html
@@ -77,7 +77,7 @@ if(saved?saved==='it':/^it\b/i.test(pref))location.replace(it+location.search+lo
   <div class="wrap">
     <div class="grid">
       <div class="brand"><img src="/img/brand/logo-light.svg" alt="Syscake" width="89" height="26"><p>Ingegneria del software e intelligenza artificiale applicata, dalla ricerca alla produzione. Roma.</p></div>
-      <div><h2>Prodotti</h2><ul><li><a href="/it/prodotti/chroniq/">Chroniq</a></li><li><a href="/it/prodotti/swe-foundry/">SWE Foundry</a></li><li><a href="/it/prodotti/rideweave/">RideWeave</a></li><li><a href="/it/prodotti/videat/">Videat</a></li><li><a href="/it/prodotti/morsiqo/">Morsiqo</a></li><li><a href="/it/prodotti/meat-puppets/">Meat Puppets</a></li></ul></div>
+      <div><h2>Prodotti</h2><ul><li><a href="/it/prodotti/chroniq/">Chroniq</a></li><li><a href="/it/prodotti/swe-foundry/">SWE Foundry</a></li><li><a href="/it/prodotti/rideweave/">RideWeave</a></li><li><a href="/it/prodotti/videat/">Videat</a></li><li><a href="/it/prodotti/meat-puppets/">Meat Puppets</a></li><li><a href="/it/prodotti/morsiqo/">Morsiqo</a></li></ul></div>
       <div><h2>Competenze</h2><ul><li><a href="/it/competenze/intelligenza-artificiale/">AI applicata</a></li><li><a href="/it/competenze/ingegneria-di-prodotto/">Ingegneria di prodotto</a></li><li><a href="/it/competenze/blockchain-identita-digitale/">Blockchain e identità digitale</a></li><li><a href="/it/competenze/dati-scienza-iot/">Dati, scienza e IoT</a></li></ul></div>
       <div><h2>Azienda</h2><ul><li><a href="/it/chi-siamo/">Chi siamo</a></li><li><a href="/it/lavori/">Lavori</a></li><li><a href="/it/lavora-con-noi/">Lavora con noi</a></li><li><a href="/it/contatti/">Contatti</a></li><li><a href="https://github.com/SysCake" rel="noopener">GitHub</a></li><li><a href="https://www.linkedin.com/company/syscake/" rel="noopener">Linkedin</a></li><li><a href="https://www.instagram.com/syscake.tech" rel="noopener">Instagram</a></li><li><a href="https://www.facebook.com/syscake.tech" rel="noopener">Facebook</a></li></ul></div>
     </div>

diff --git a/it/competenze/dati-scienza-iot/index.html b/it/competenze/dati-scienza-iot/index.html
@@ -77,7 +77,7 @@ if(saved?saved==='it':/^it\b/i.test(pref))location.replace(it+location.search+lo
   <div class="wrap">
     <div class="grid">
       <div class="brand"><img src="/img/brand/logo-light.svg" alt="Syscake" width="89" height="26"><p>Ingegneria del software e intelligenza artificiale applicata, dalla ricerca alla produzione. Roma.</p></div>
-      <div><h2>Prodotti</h2><ul><li><a href="/it/prodotti/chroniq/">Chroniq</a></li><li><a href="/it/prodotti/swe-foundry/">SWE Foundry</a></li><li><a href="/it/prodotti/rideweave/">RideWeave</a></li><li><a href="/it/prodotti/videat/">Videat</a></li><li><a href="/it/prodotti/morsiqo/">Morsiqo</a></li><li><a href="/it/prodotti/meat-puppets/">Meat Puppets</a></li></ul></div>
+      <div><h2>Prodotti</h2><ul><li><a href="/it/prodotti/chroniq/">Chroniq</a></li><li><a href="/it/prodotti/swe-foundry/">SWE Foundry</a></li><li><a href="/it/prodotti/rideweave/">RideWeave</a></li><li><a href="/it/prodotti/videat/">Videat</a></li><li><a href="/it/prodotti/meat-puppets/">Meat Puppets</a></li><li><a href="/it/prodotti/morsiqo/">Morsiqo</a></li></ul></div>
       <div><h2>Competenze</h2><ul><li><a href="/it/competenze/intelligenza-artificiale/">AI applicata</a></li><li><a href="/it/competenze/ingegneria-di-prodotto/">Ingegneria di prodotto</a></li><li><a href="/it/competenze/blockchain-identita-digitale/">Blockchain e identità digitale</a></li><li><a href="/it/competenze/dati-scienza-iot/">Dati, scienza e IoT</a></li></ul></div>
       <div><h2>Azienda</h2><ul><li><a href="/it/chi-siamo/">Chi siamo</a></li><li><a href="/it/lavori/">Lavori</a></li><li><a href="/it/lavora-con-noi/">Lavora con noi</a></li><li><a href="/it/contatti/">Contatti</a></li><li><a href="https://github.com/SysCake" rel="noopener">GitHub</a></li><li><a href="https://www.linkedin.com/company/syscake/" rel="noopener">Linkedin</a></li><li><a href="https://www.instagram.com/syscake.tech" rel="noopener">Instagram</a></li><li><a href="https://www.facebook.com/syscake.tech" rel="noopener">Facebook</a></li></ul></div>
     </div>

diff --git a/it/competenze/ingegneria-di-prodotto/index.html b/it/competenze/ingegneria-di-prodotto/index.html
@@ -77,7 +77,7 @@ if(saved?saved==='it':/^it\b/i.test(pref))location.replace(it+location.search+lo
   <div class="wrap">
     <div class="grid">
       <div class="brand"><img src="/img/brand/logo-light.svg" alt="Syscake" width="89" height="26"><p>Ingegneria del software e intelligenza artificiale applicata, dalla ricerca alla produzione. Roma.</p></div>
-      <div><h2>Prodotti</h2><ul><li><a href="/it/prodotti/chroniq/">Chroniq</a></li><li><a href="/it/prodotti/swe-foundry/">SWE Foundry</a></li><li><a href="/it/prodotti/rideweave/">RideWeave</a></li><li><a href="/it/prodotti/videat/">Videat</a></li><li><a href="/it/prodotti/morsiqo/">Morsiqo</a></li><li><a href="/it/prodotti/meat-puppets/">Meat Puppets</a></li></ul></div>
+      <div><h2>Prodotti</h2><ul><li><a href="/it/prodotti/chroniq/">Chroniq</a></li><li><a href="/it/prodotti/swe-foundry/">SWE Foundry</a></li><li><a href="/it/prodotti/rideweave/">RideWeave</a></li><li><a href="/it/prodotti/videat/">Videat</a></li><li><a href="/it/prodotti/meat-puppets/">Meat Puppets</a></li><li><a href="/it/prodotti/morsiqo/">Morsiqo</a></li></ul></div>
       <div><h2>Competenze</h2><ul><li><a href="/it/competenze/intelligenza-artificiale/">AI applicata</a></li><li><a href="/it/competenze/ingegneria-di-prodotto/">Ingegneria di prodotto</a></li><li><a href="/it/competenze/blockchain-identita-digitale/">Blockchain e identità digitale</a></li><li><a href="/it/competenze/dati-scienza-iot/">Dati, scienza e IoT</a></li></ul></div>
       <div><h2>Azienda</h2><ul><li><a href="/it/chi-siamo/">Chi siamo</a></li><li><a href="/it/lavori/">Lavori</a></li><li><a href="/it/lavora-con-noi/">Lavora con noi</a></li><li><a href="/it/contatti/">Contatti</a></li><li><a href="https://github.com/SysCake" rel="noopener">GitHub</a></li><li><a href="https://www.linkedin.com/company/syscake/" rel="noopener">Linkedin</a></li><li><a href="https://www.instagram.com/syscake.tech" rel="noopener">Instagram</a></li><li><a href="https://www.facebook.com/syscake.tech" rel="noopener">Facebook</a></li></ul></div>
     </div>

diff --git a/it/competenze/intelligenza-artificiale/index.html b/it/competenze/intelligenza-artificiale/index.html
@@ -77,7 +77,7 @@ if(saved?saved==='it':/^it\b/i.test(pref))location.replace(it+location.search+lo
   <div class="wrap">
     <div class="grid">
       <div class="brand"><img src="/img/brand/logo-light.svg" alt="Syscake" width="89" height="26"><p>Ingegneria del software e intelligenza artificiale applicata, dalla ricerca alla produzione. Roma.</p></div>
-      <div><h2>Prodotti</h2><ul><li><a href="/it/prodotti/chroniq/">Chroniq</a></li><li><a href="/it/prodotti/swe-foundry/">SWE Foundry</a></li><li><a href="/it/prodotti/rideweave/">RideWeave</a></li><li><a href="/it/prodotti/videat/">Videat</a></li><li><a href="/it/prodotti/morsiqo/">Morsiqo</a></li><li><a href="/it/prodotti/meat-puppets/">Meat Puppets</a></li></ul></div>
+      <div><h2>Prodotti</h2><ul><li><a href="/it/prodotti/chroniq/">Chroniq</a></li><li><a href="/it/prodotti/swe-foundry/">SWE Foundry</a></li><li><a href="/it/prodotti/rideweave/">RideWeave</a></li><li><a href="/it/prodotti/videat/">Videat</a></li><li><a href="/it/prodotti/meat-puppets/">Meat Puppets</a></li><li><a href="/it/prodotti/morsiqo/">Morsiqo</a></li></ul></div>
       <div><h2>Competenze</h2><ul><li><a href="/it/competenze/intelligenza-artificiale/">AI applicata</a></li><li><a href="/it/competenze/ingegneria-di-prodotto/">Ingegneria di prodotto</a></li><li><a href="/it/competenze/blockchain-identita-digitale/">Blockchain e identità digitale</a></li><li><a href="/it/competenze/dati-scienza-iot/">Dati, scienza e IoT</a></li></ul></div>
       <div><h2>Azienda</h2><ul><li><a href="/it/chi-siamo/">Chi siamo</a></li><li><a href="/it/lavori/">Lavori</a></li><li><a href="/it/lavora-con-noi/">Lavora con noi</a></li><li><a href="/it/contatti/">Contatti</a></li><li><a href="https://github.com/SysCake" rel="noopener">GitHub</a></li><li><a href="https://www.linkedin.com/company/syscake/" rel="noopener">Linkedin</a></li><li><a href="https://www.instagram.com/syscake.tech" rel="noopener">Instagram</a></li><li><a href="https://www.facebook.com/syscake.tech" rel="noopener">Facebook</a></li></ul></div>
     </div>

diff --git a/it/contatti/index.html b/it/contatti/index.html
@@ -88,7 +88,7 @@ if(saved?saved==='it':/^it\b/i.test(pref))location.replace(it+location.search+lo
   <div class="wrap">
     <div class="grid">
       <div class="brand"><img src="/img/brand/logo-light.svg" alt="Syscake" width="89" height="26"><p>Ingegneria del software e intelligenza artificiale applicata, dalla ricerca alla produzione. Roma.</p></div>
-      <div><h2>Prodotti</h2><ul><li><a href="/it/prodotti/chroniq/">Chroniq</a></li><li><a href="/it/prodotti/swe-foundry/">SWE Foundry</a></li><li><a href="/it/prodotti/rideweave/">RideWeave</a></li><li><a href="/it/prodotti/videat/">Videat</a></li><li><a href="/it/prodotti/morsiqo/">Morsiqo</a></li><li><a href="/it/prodotti/meat-puppets/">Meat Puppets</a></li></ul></div>
+      <div><h2>Prodotti</h2><ul><li><a href="/it/prodotti/chroniq/">Chroniq</a></li><li><a href="/it/prodotti/swe-foundry/">SWE Foundry</a></li><li><a href="/it/prodotti/rideweave/">RideWeave</a></li><li><a href="/it/prodotti/videat/">Videat</a></li><li><a href="/it/prodotti/meat-puppets/">Meat Puppets</a></li><li><a href="/it/prodotti/morsiqo/">Morsiqo</a></li></ul></div>
       <div><h2>Competenze</h2><ul><li><a href="/it/competenze/intelligenza-artificiale/">AI applicata</a></li><li><a href="/it/competenze/ingegneria-di-prodotto/">Ingegneria di prodotto</a></li><li><a href="/it/competenze/blockchain-identita-digitale/">Blockchain e identità digitale</a></li><li><a href="/it/competenze/dati-scienza-iot/">Dati, scienza e IoT</a></li></ul></div>
       <div><h2>Azienda</h2><ul><li><a href="/it/chi-siamo/">Chi siamo</a></li><li><a href="/it/lavori/">Lavori</a></li><li><a href="/it/lavora-con-noi/">Lavora con noi</a></li><li><a href="/it/contatti/">Contatti</a></li><li><a href="https://github.com/SysCake" rel="noopener">GitHub</a></li><li><a href="https://www.linkedin.com/company/syscake/" rel="noopener">Linkedin</a></li><li><a href="https://www.instagram.com/syscake.tech" rel="noopener">Instagram</a></li><li><a href="https://www.facebook.com/syscake.tech" rel="noopener">Facebook</a></li></ul></div>
     </div>

diff --git a/it/cookie/index.html b/it/cookie/index.html
@@ -64,7 +64,7 @@ if(saved?saved==='it':/^it\b/i.test(pref))location.replace(it+location.search+lo
   <div class="wrap">
     <div class="grid">
       <div class="brand"><img src="/img/brand/logo-light.svg" alt="Syscake" width="89" height="26"><p>Ingegneria del software e intelligenza artificiale applicata, dalla ricerca alla produzione. Roma.</p></div>
-      <div><h2>Prodotti</h2><ul><li><a href="/it/prodotti/chroniq/">Chroniq</a></li><li><a href="/it/prodotti/swe-foundry/">SWE Foundry</a></li><li><a href="/it/prodotti/rideweave/">RideWeave</a></li><li><a href="/it/prodotti/videat/">Videat</a></li><li><a href="/it/prodotti/morsiqo/">Morsiqo</a></li><li><a href="/it/prodotti/meat-puppets/">Meat Puppets</a></li></ul></div>
+      <div><h2>Prodotti</h2><ul><li><a href="/it/prodotti/chroniq/">Chroniq</a></li><li><a href="/it/prodotti/swe-foundry/">SWE Foundry</a></li><li><a href="/it/prodotti/rideweave/">RideWeave</a></li><li><a href="/it/prodotti/videat/">Videat</a></li><li><a href="/it/prodotti/meat-puppets/">Meat Puppets</a></li><li><a href="/it/prodotti/morsiqo/">Morsiqo</a></li></ul></div>
       <div><h2>Competenze</h2><ul><li><a href="/it/competenze/intelligenza-artificiale/">AI applicata</a></li><li><a href="/it/competenze/ingegneria-di-prodotto/">Ingegneria di prodotto</a></li><li><a href="/it/competenze/blockchain-identita-digitale/">Blockchain e identità digitale</a></li><li><a href="/it/competenze/dati-scienza-iot/">Dati, scienza e IoT</a></li></ul></div>
       <div><h2>Azienda</h2><ul><li><a href="/it/chi-siamo/">Chi siamo</a></li><li><a href="/it/lavori/">Lavori</a></li><li><a href="/it/lavora-con-noi/">Lavora con noi</a></li><li><a href="/it/contatti/">Contatti</a></li><li><a href="https://github.com/SysCake" rel="noopener">GitHub</a></li><li><a href="https://www.linkedin.com/company/syscake/" rel="noopener">Linkedin</a></li><li><a href="https://www.instagram.com/syscake.tech" rel="noopener">Instagram</a></li><li><a href="https://www.facebook.com/syscake.tech" rel="noopener">Facebook</a></li></ul></div>
     </div>
